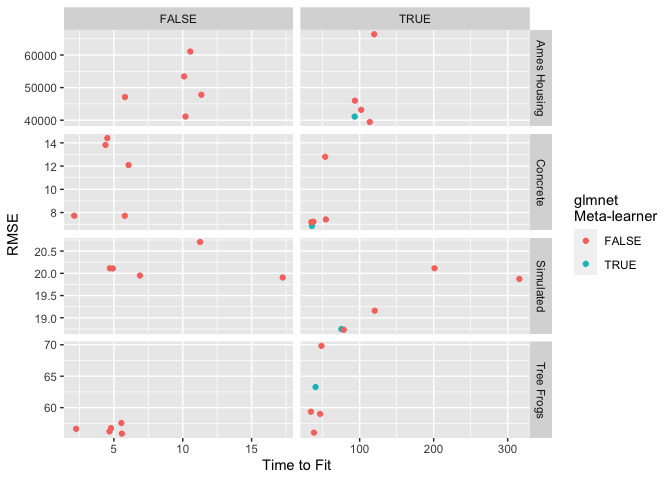
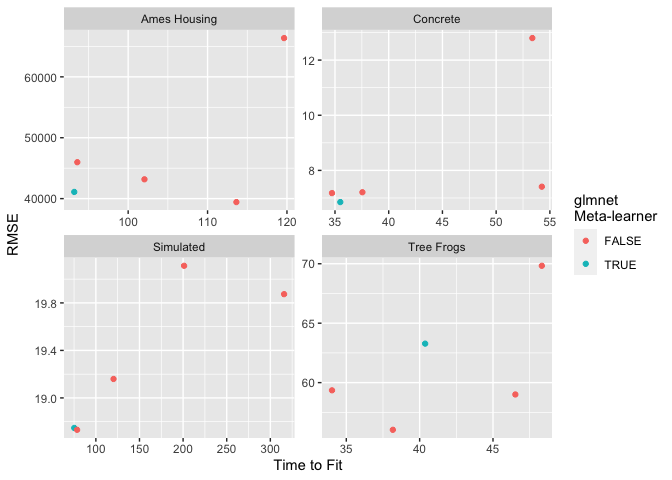
only benchmark stacks

diff --git a/README.md b/README.md
@@ -22,31 +22,28 @@ library(blenders)
 data(stack_benchmarks)
 
 glimpse(stack_benchmarks)
-#> Rows: 40
-#> Columns: 6
-#> Rowwise: 
-#> $ stack        <lgl> FALSE, FALSE, FALSE, FALSE, FALSE, FALSE, FALSE, FALSE, F…
-#> $ model_type   <chr> "linear_reg", "boost_tree", "svm_linear", "mlp", "nearest…
-#> $ dataset      <chr> "Tree Frogs", "Tree Frogs", "Tree Frogs", "Tree Frogs", "…
+#> Rows: 20
+#> Columns: 5
+#> $ model_type   <chr> "linear_reg", "linear_reg", "linear_reg", "linear_reg", "…
+#> $ dataset      <chr> "Concrete", "Tree Frogs", "Simulated", "Ames Housing", "C…
 #> $ metric       <chr> "rmse", "rmse", "rmse", "rmse", "rmse", "rmse", "rmse", "…
-#> $ metric_value <dbl> 56.221954, 55.868331, 56.744354, 57.558454, 56.633912, 14…
-#> $ time_to_fit  <dbl> 4.681, 5.576, 4.791, 5.540, 2.255, 4.521, 5.787, 4.387, 6…
+#> $ metric_value <dbl> 6.851051, 63.279304, 18.747218, 41098.057692, 7.408634, 5…
+#> $ time_to_fit  <dbl> 35.493, 40.375, 75.217, 93.208, 54.252, 46.524, 120.256, …
 ```
 
-Notably, the `stack` column indicates whether model stacking was used,
-and the `model_type` column indicates the highest-level learner used.
-When `stack` is `TRUE`, this refers to the meta-learner. For several
-different datasets, we record the time to fit and RMSE value.
+Notably, the `model_type` column indicates the meta-learner learner
+used. For several different datasets, we record the time to fit and a
+metric value.
 
 ``` r
 stack_benchmarks %>%
   mutate(
-    glmnet_meta = if_else(isTRUE(stack) && model_type == "linear_reg", TRUE, FALSE)
+    glmnet_meta = if_else(model_type == "linear_reg", TRUE, FALSE)
   ) %>%
   ggplot() +
   aes(x = time_to_fit, y = metric_value, col = glmnet_meta) +
   geom_point() +
-  facet_grid(dataset ~ stack, scales = "free") +
+  facet_wrap(vars(dataset), scales = "free") +
   labs(x = "Time to Fit", y = "RMSE", col = "glmnet\nMeta-learner")
 ```
 
